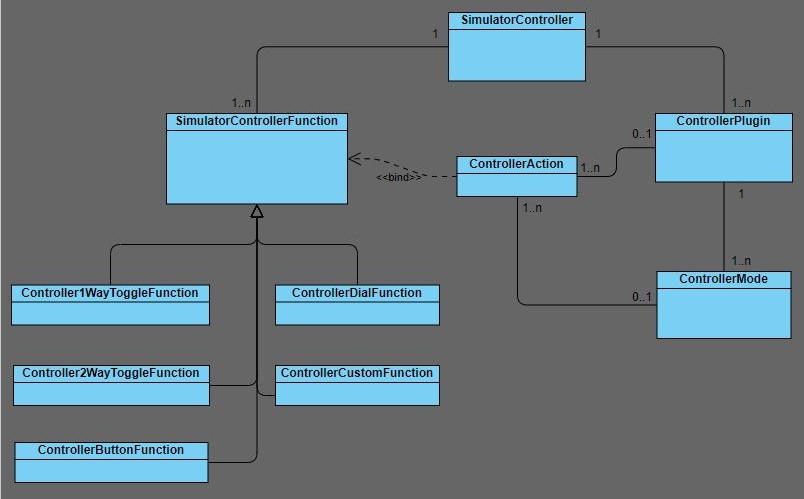
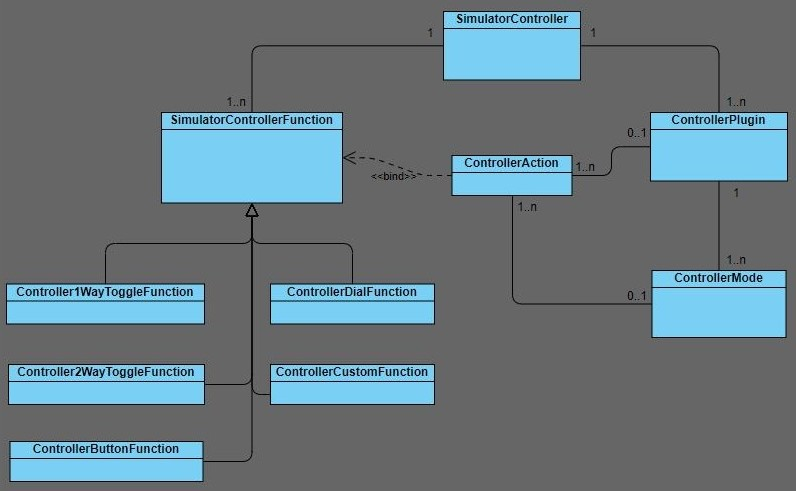
Small Docs Update

diff --git a/Docs/Development Overview & Concepts.md b/Docs/Development Overview & Concepts.md
@@ -15,6 +15,8 @@ The Simulator Controller framework has been build around the similar named Singl
 
 A specific hardware control element is represented in code by instances of the class SimulatorControllerFunction (*). For a controller function to be useful, it must be connected to a ControllerAction (*), which implements the functionality, which should triggered by the hardware controller. These connections are of dynamic nature, which means that the function mapping of the hardware controller may be changed anytime. This is, in the end, the capability used when switching between modes.
 
+![](https://github.com/SeriousOldMan/Simulator-Controller/blob/main/Docs/Images/Class%20Diagram%201.JPG)
+
 ### Plugins
 
 
